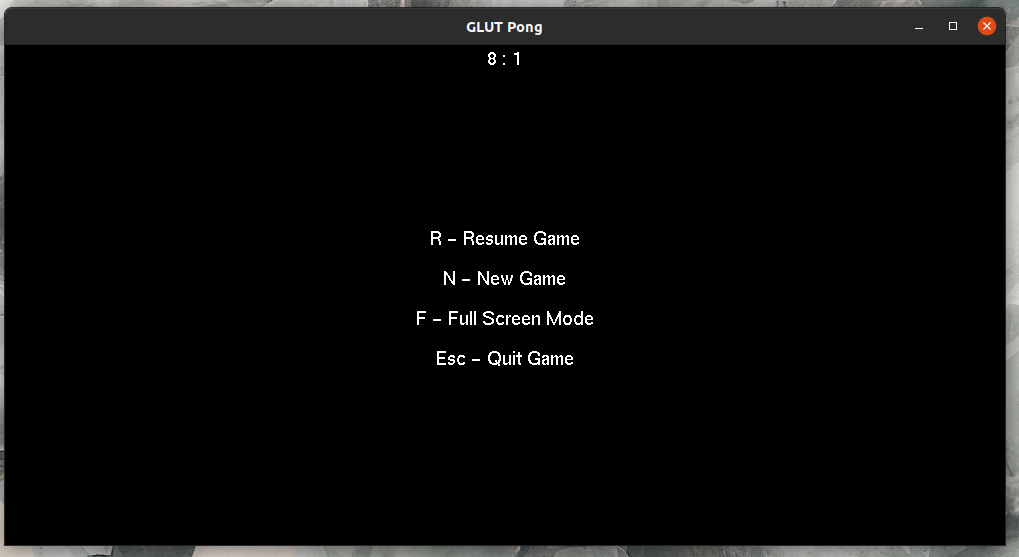
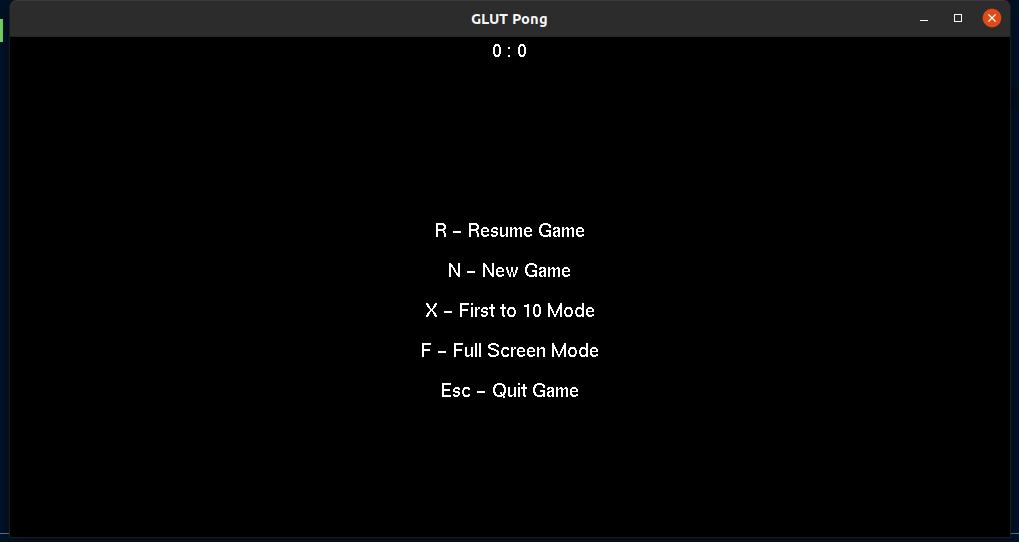
Updated README.md

diff --git a/Game.h b/Game.h
@@ -74,7 +74,7 @@ class Game {
     */
     void newGame();
 
-    /*Handles the movement of the paddles.
+    /*Handles the movement of the rackets.
     *No inputs.
     *No outputs.
     */

diff --git a/README.md b/README.md
@@ -4,7 +4,7 @@ Simple Pong game developed using C++ and GLUT / OpenGL.
 
 # 1. Installation
 
-The game has been developed and tested on Ubuntu 20.04 LTS but also works on Windows 10.<br>
+The game has been developed and tested on Ubuntu 20.04 LTS.<br>
 
 - <span style="font-size: 1.5rem">Requirements</span>
     - Git
@@ -33,6 +33,7 @@ I - Move right racket up<br>
 K - Move right racket down<br>
 R - Resume game<br>
 N - New game<br>
+X - Enable X-Mode<br>
 F - Toggle full-screen mode<br>
 Esc - Quit game
 
